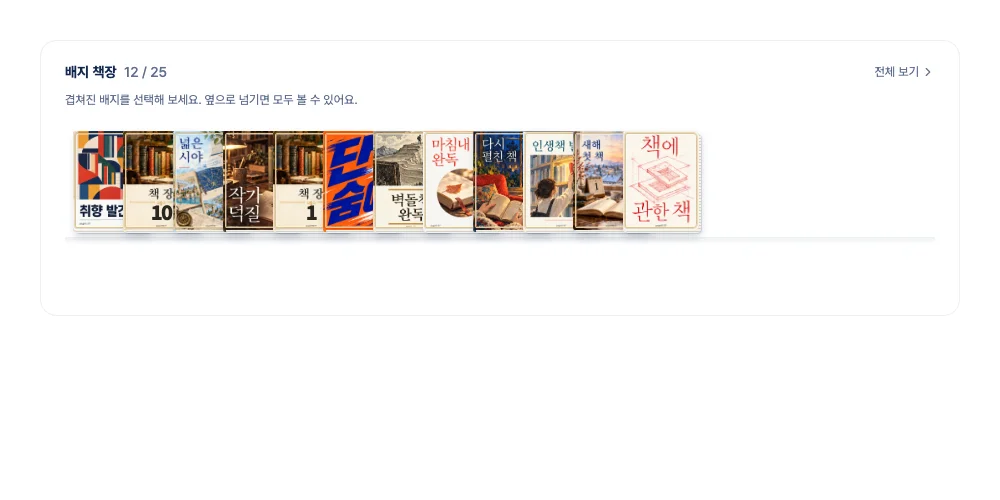
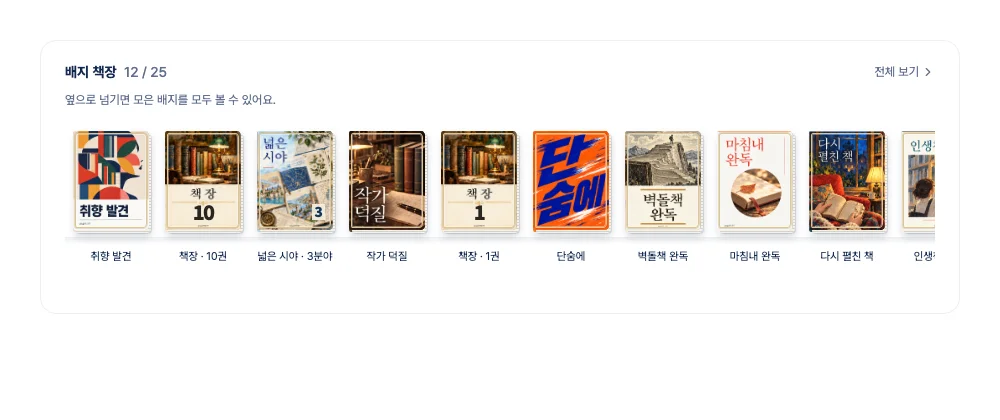
fix: 서재 배지를 겹치지 않게 나란히 배치한다

Changed region(s): [[0.062, 0.1238, 0.961, 0.619], [0.868, 0.1238, 0.93, 0.1857]]

diff --git a/apps/page0127/src/features/badge/ui/BadgeShelf.module.css b/apps/page0127/src/features/badge/ui/BadgeShelf.module.css
@@ -225,50 +225,31 @@
   font-size: 10px;
   font-weight: 500;
 }
-/* 모든 소장 배지를 한 줄에 겹쳐 놓는다. 포커스한 책을 앞으로 꺼낸다. */
+/* 표지와 이름을 모두 보이게 나란히 놓고, 넘치는 배지만 가로로 탐색한다. */
 .summaryShelf {
   --shelf-book-width: 76px;
   display: flex;
   align-items: flex-start;
-  gap: 0;
+  gap: 16px;
   overflow-x: auto;
   overscroll-behavior-x: contain;
-  padding: 14px 8px 32px;
+  padding: 14px 8px 12px;
   margin-top: 8px;
   background: linear-gradient(to bottom, var(--line-soft), transparent) 0
     120px / 100% 7px no-repeat;
   scrollbar-width: thin;
 }
 .summaryShelf .shelfItem {
-  flex: 0 0 clamp(36px, 5vw, 64px);
-  min-height: 132px;
+  flex: 0 0 76px;
+  min-height: 150px;
   width: 76px;
-}
-.summaryShelf .shelfItem:last-child {
-  flex-basis: 84px;
 }
 .summaryShelf .tile {
   width: 76px;
 }
 .summaryShelf .name {
-  position: absolute;
-  top: 108px;
-  left: -24px;
-  width: 124px;
-  max-width: none;
-  margin-top: 0;
-  padding: 4px 6px;
-  border-radius: 6px;
-  background: var(--card);
-  box-shadow: 0 2px 8px rgb(20 41 78 / 10%);
-  opacity: 0;
-  pointer-events: none;
-}
-.summaryShelf .shelfItem:is(:hover, :focus-within) {
-  z-index: 10;
-}
-.summaryShelf .tile:is(:hover, :focus-visible) .name {
-  opacity: 1;
+  margin-top: 17px;
+  font-size: 11px;
 }
 .summaryShelf .tile:focus-visible {
   outline-offset: 2px;

diff --git a/apps/page0127/src/features/badge/ui/BadgeSummary.tsx b/apps/page0127/src/features/badge/ui/BadgeSummary.tsx
@@ -15,7 +15,7 @@ import styles from './BadgeShelf.module.css';
 
 type BadgeSummaryProps = BadgeInput & { username: string; isOwner: boolean };
 
-/** 받은 모든 단계의 배지를 겹쳐 놓고, 넘치면 가로로 탐색한다. */
+/** 받은 모든 단계의 배지를 나란히 놓고, 넘치면 가로로 탐색한다. */
 export const BadgeSummary = ({
   username,
   isOwner,
@@ -60,7 +60,7 @@ export const BadgeSummary = ({
         </Link>
       </div>
       <p className='mt-2 text-xs text-text-subtle'>
-        겹쳐진 배지를 선택해 보세요. 옆으로 넘기면 모두 볼 수 있어요.
+        옆으로 넘기면 모은 배지를 모두 볼 수 있어요.
       </p>
       {earned.length ? (
         <ul className={styles.summaryShelf} aria-label='획득한 배지 책장'>

diff --git a/docs/design/badge-books/README.md b/docs/design/badge-books/README.md
@@ -29,12 +29,12 @@
 ## 소장 상태와 성장 단계
 
 - 획득한 표지에는 얇은 금속 테두리를 두고 마우스·키보드 포커스에서 빛이 한 번 지나간다. 모션 감축 설정에서는 움직이지 않는다.
-- 서재 요약은 3·5개 제한을 없애고 받은 모든 성장 단계와 배지를 겹쳐 놓는다. 가로 스크롤과 키보드 포커스로 끝까지 탐색할 수 있다.
+- 서재 요약은 3·5개 제한을 없애고 받은 모든 성장 단계와 배지를 나란히 놓는다. 가로 스크롤과 키보드 포커스로 끝까지 탐색할 수 있다.
 - 미획득 표지는 점선 빈 칸과 ‘미획득’ 문구로 표시한다. 마우스나 키보드 포커스에서 흑백 표지를 미리 보고, 터치에서는 상세를 열어 확인한다. 미획득 비밀 배지는 실제 표지 대신 공통 표지만 보여 준다.
 - 성장 배지 8단계(책장 1·10·50·100·200권, 시야 3·5·9분야)를 각각 보존한다. 과거 단계도 해당 시점의 획득일·근거 책을 가진다. 전체 책장은 25칸이다. 저장 알림 계산은 기존처럼 종류별 현재 단계를 사용한다.
 - 재독은 저장된 `read_count`와 같은 ISBN의 실제 완독 기록 수 중 큰 값을 사용한다. 읽는 중인 회독·중복 행·다른 사람의 기록은 더하지 않는다. `stronger_khj`의 공개 기록에서 동일 ISBN 완독 두 건이 모두 `read_count=1`인 경우를 읽기 전용으로 확인했다. 운영 데이터는 수정하지 않는다.
 
-![모든 소장 배지 겹침 책장](summary-desktop.webp)
+![모든 소장 배지 가로 책장](summary-desktop.webp)
 
 ![미획득 흑백 미리보기](unearned-preview.webp)
 
